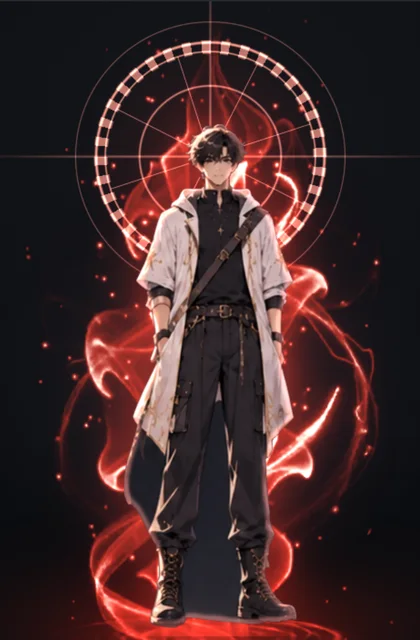
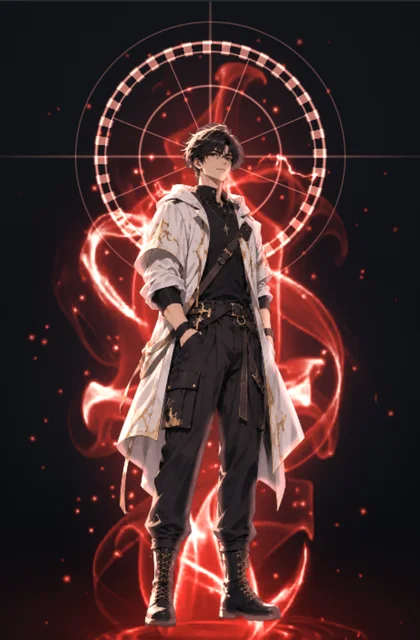
3.1.1: full-resolution character art
Six new renders cut out with rembg (anime and general isnet models picked per image),
interiors filled solid, floor reflections trimmed, saved at 1450 px tall.
Website images re-rendered. Flow test 10/10.

Claude-Session: https://claude.ai/code/session_01TuGeVCUiyBb35Ef3FCgXE2

diff --git a/www/sw.js b/www/sw.js
@@ -1,5 +1,5 @@
 // Ascendant offline cache. Bump VERSION on every release so phones pick up the update.
-const VERSION = "ascendant-3.1.0";
+const VERSION = "ascendant-3.1.1";
 const CORE = [
   "./", "./index.html", "./manifest.webmanifest", "./css/app.css",
   "./js/config.js", "./js/core.js", "./js/ui.js", "./js/scoring.js", "./js/cloud.js", "./js/fx.js", "./js/hero2d.js", "./js/views.js", "./js/account.js", "./js/boot.js",

diff --git a/www/js/core.js b/www/js/core.js
@@ -1,6 +1,6 @@
 "use strict";
 /* ===== CONSTANTS ===== */
-const VERSION = "3.1.0";
+const VERSION = "3.1.1";
 const MUSCLES = ["Chest","Back","Shoulders","Biceps","Triceps","Legs","Abs","Cardio"];
 const OPTIONS = {
   Chest:["Bench Press","Incline Dumbbell Press","Chest Press Machine","Pec Deck Fly","Cable Crossover","Push-ups"],

diff --git a/README.md b/README.md
@@ -60,7 +60,7 @@ Usernames are unique. Passwords are not checked for uniqueness on purpose: that 
 - Nothing is for sale. Badges, titles, ranks, name glow and aura are all earned. Theme and font are free settings.
 
 ### Replacing art
-- Characters: PNG or WebP, full body, front-facing, feet visible, transparent background (a plain single-colour background is keyed out automatically). The app crops to the character, so framing does not need to be exact. Current files were cut from the outfit reference sheet, about 560 px tall in the source, so they are a little soft; single full-resolution renders (1024 px or taller) will be sharper.
+- Characters: PNG or WebP, full body, front-facing, feet visible, transparent background (a plain single-colour background is keyed out automatically). The app crops to the character, so framing does not need to be exact. Current files are cut from single full-resolution renders (about 1500 to 1770 px tall) with rembg (isnet models), interiors filled solid and floor reflections trimmed at the sole line.
 - Aura: any white or grey energy loop on pure black, vertical. Re-run the loop and encode commands from the 3.1 commit message to rebuild both files.
 - Bump `VERSION` in `www/js/core.js` and `www/sw.js` after changing art.
 
@@ -138,7 +138,7 @@ After editing `www/js/scoring.js`, copy it to `supabase/functions/_shared/scorin
 
 - Server functions not yet deployed to the live Supabase project. Everything server-side was tested against real Postgres through a mock of Supabase's HTTP APIs and a fake Razorpay.
 - Not tested on a real Android phone.
-- Character art comes from a reference sheet at low resolution; full-resolution renders would be sharper.
+- The Huntress Signature render is shot from a low angle, so she changes size and angle when switching outfits; a straight-on version should replace it.
 - Account deletion is by request to the owner (the training reset in Settings is self-service).
 - No gym events, posters or member profile pages yet.
 
